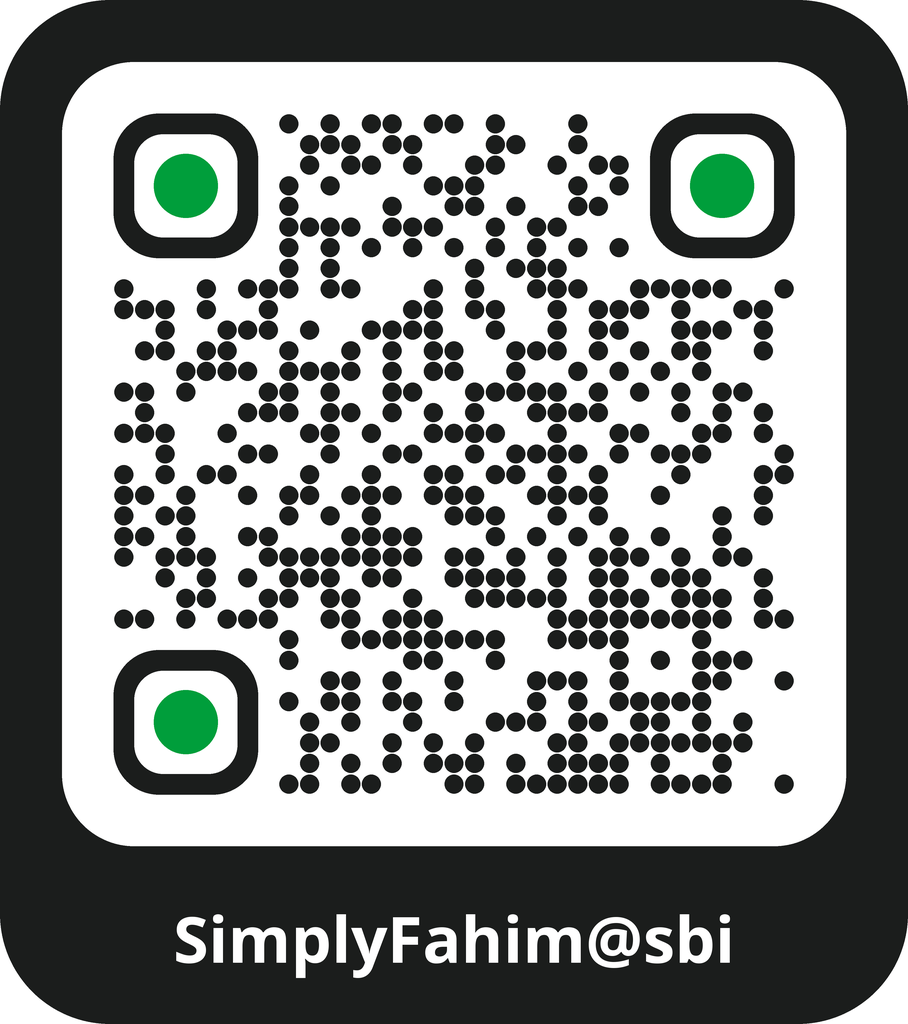
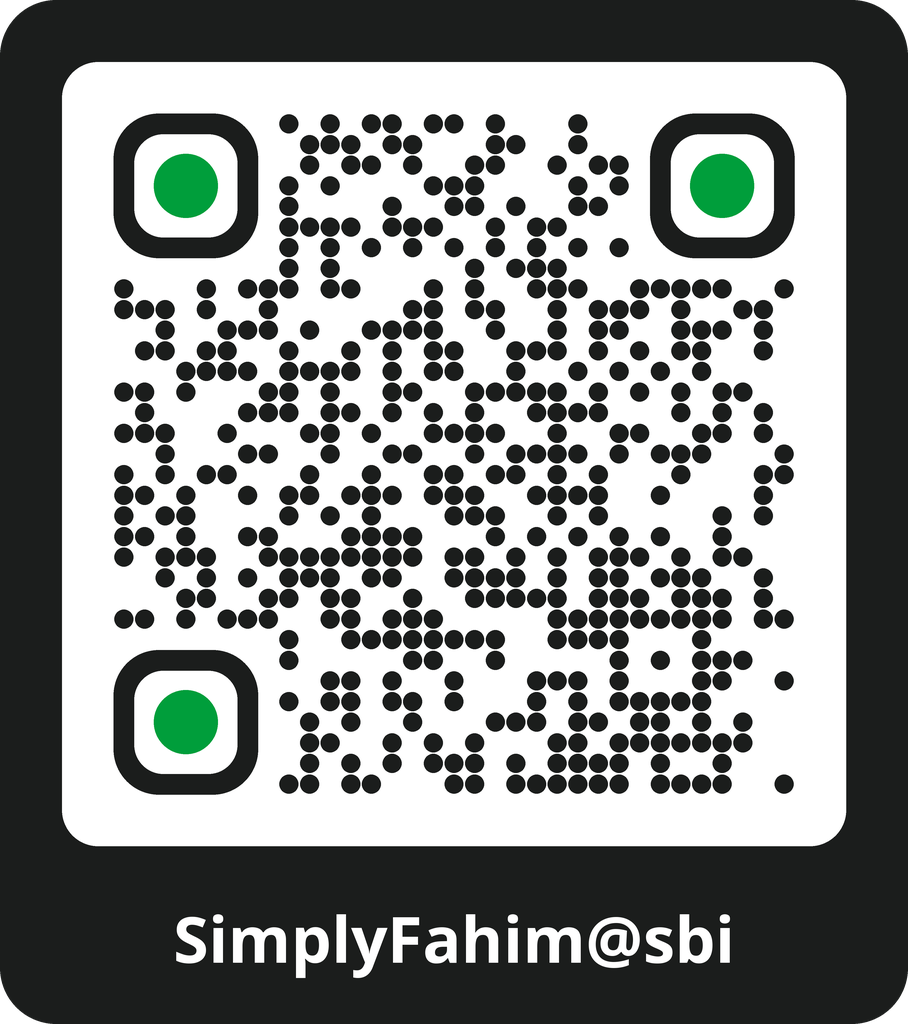
docs: round QR corners with transparency and size it at 220px

diff --git a/tools/generate_upi_qr.py b/tools/generate_upi_qr.py
@@ -2,7 +2,7 @@
 # SPDX-License-Identifier: AGPL-3.0-or-later
 """Generates the styled UPI support QR (docs/assets/support/upi-qr.png) and checks it decodes.
 
-Dark rounded card, white panel, dot modules, green finder eyes and the UPI ID as a caption.
+Dark card with slightly rounded, transparent corners, white panel, dot modules, green finder eyes and the UPI ID as a caption.
 Runs offline; no QR web service is used.
 
     pip install "qrcode[pil]" zxing-cpp
@@ -53,11 +53,11 @@ def render() -> Image.Image:
     n = len(m)
 
     s = 4  # supersample for smooth dots and corners
-    img = Image.new("RGB", (W * s, H * s), WHITE)
+    img = Image.new("RGBA", (W * s, H * s), (0, 0, 0, 0))  # transparent outside the card
     d = ImageDraw.Draw(img)
-    d.rounded_rectangle((0, 0, W * s - 1, H * s - 1), 110 * s, fill=INK)
+    d.rounded_rectangle((0, 0, W * s - 1, H * s - 1), 56 * s, fill=INK)
     panel = W - 2 * PAD
-    d.rounded_rectangle((PAD * s, PAD * s, (W - PAD) * s, (PAD + panel) * s), 72 * s, fill=WHITE)
+    d.rounded_rectangle((PAD * s, PAD * s, (W - PAD) * s, (PAD + panel) * s), 36 * s, fill=WHITE)
 
     cell = panel / (n + 5)  # 2.5-module quiet zone on each side
     ox = oy = PAD + 2.5 * cell
@@ -89,7 +89,7 @@ def main() -> int:
     img = render()
     OUT.parent.mkdir(parents=True, exist_ok=True)
     img.save(OUT, optimize=True)
-    saved = Image.open(OUT)
+    saved = Image.alpha_composite(Image.new("RGBA", Image.open(OUT).size, WHITE + (255,)), Image.open(OUT).convert("RGBA")).convert("RGB")
     # Check the saved file at full size and at the sizes the READMEs and websites show it.
     for test in (saved, saved.resize((240, 271), Image.LANCZOS), saved.resize((220, 248), Image.LANCZOS)):
         results = zxingcpp.read_barcodes(test)

diff --git a/README.md b/README.md
@@ -141,7 +141,7 @@ QuantumMPV is free software under the [GNU Affero General Public License v3.0 or
 
 QuantumMPV is free and always will be. If it makes your movie nights better, a small donation keeps development going.
 
-<a href="https://quantummpv.vercel.app/pay/"><img src="docs/assets/support/upi-qr.png" width="240" alt="UPI QR code to pay Md Fahim, UPI ID SimplyFahim@sbi. Tap to open UPI payment options."></a>
+<a href="https://quantummpv.vercel.app/pay/"><img src="docs/assets/support/upi-qr.png" width="220" alt="UPI QR code to pay Md Fahim, UPI ID SimplyFahim@sbi. Tap to open UPI payment options."></a>
 
 ### 👆 **Tap the QR to open UPI payment options**
 
